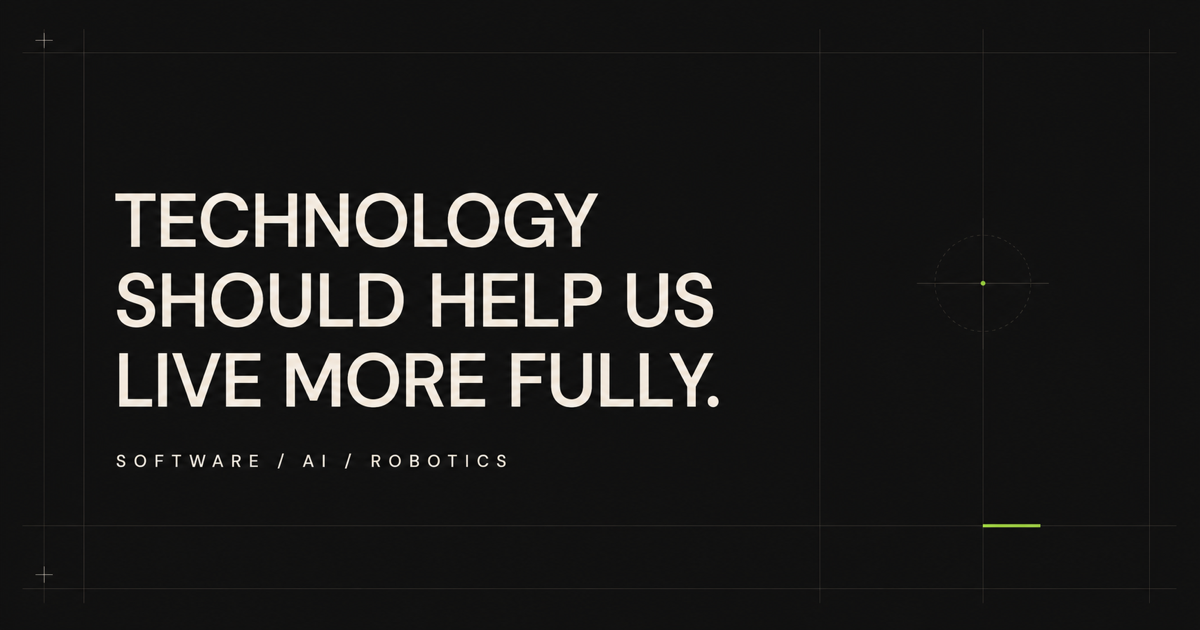
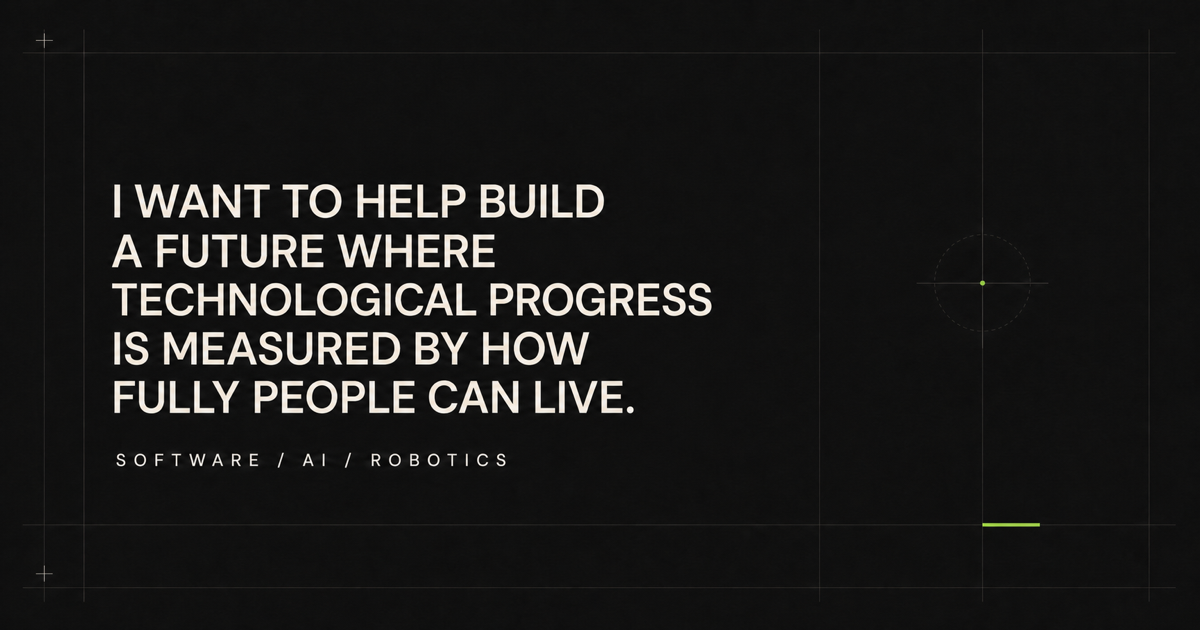
Sharpen portfolio hook and AI note

diff --git a/app/globals.css b/app/globals.css
@@ -141,28 +141,55 @@ a {
 /* Homepage */
 
 .portfolio-intro {
-  padding: clamp(54px, 6vw, 80px) 0 clamp(58px, 6vw, 84px);
+  padding: clamp(44px, 5vw, 72px) 0 clamp(38px, 4vw, 58px);
 }
 
 .portfolio-intro h1 {
-  max-width: 1140px;
+  max-width: 1080px;
   margin: 0;
   color: var(--paper);
-  font-size: clamp(48px, 6.4vw, 84px);
+  font-size: clamp(48px, 6.2vw, 84px);
   font-weight: 680;
-  line-height: 0.92;
-  letter-spacing: -0.065em;
+  line-height: 0.94;
+  letter-spacing: -0.062em;
   text-wrap: balance;
 }
 
-.portfolio-intro h1 span {
-  display: block;
-  margin-bottom: 20px;
+.ai-note {
+  display: grid;
+  grid-template-columns: minmax(175px, 0.38fr) minmax(0, 0.62fr);
+  gap: clamp(26px, 4vw, 58px);
+  align-items: start;
+  margin: clamp(28px, 3.4vw, 44px) 0 0;
+  padding-top: 18px;
+  border-top: 1px solid var(--line-dark);
+}
+
+.ai-note figcaption {
+  display: flex;
+  flex-direction: column;
+  gap: 8px;
   color: var(--muted-dark);
-  font-size: clamp(23px, 2.8vw, 38px);
-  font-weight: 520;
-  line-height: 1.08;
-  letter-spacing: -0.04em;
+  font: 800 10px/1.2 var(--mono);
+  letter-spacing: 0.085em;
+}
+
+.ai-note figcaption span:first-child {
+  color: var(--signal);
+}
+
+.ai-note blockquote {
+  max-width: 720px;
+  margin: 0;
+}
+
+.ai-note blockquote p {
+  margin: 0;
+  color: #d0d1ca;
+  font-size: clamp(18px, 1.7vw, 23px);
+  line-height: 1.32;
+  letter-spacing: -0.025em;
+  text-wrap: balance;
 }
 
 .detail-actions {
@@ -1731,17 +1758,30 @@ a {
   }
 
   .portfolio-intro {
-    padding: 50px 0 46px;
+    padding: 38px 0 32px;
   }
 
   .portfolio-intro h1 {
-    font-size: clamp(38px, 10.5vw, 46px);
-    line-height: 0.98;
+    font-size: clamp(40px, 11.4vw, 50px);
+    line-height: 0.97;
   }
 
-  .portfolio-intro h1 span {
-    margin-bottom: 14px;
-    font-size: clamp(19px, 5.8vw, 24px);
+  .ai-note {
+    grid-template-columns: 1fr;
+    gap: 12px;
+    margin-top: 26px;
+    padding-top: 14px;
+  }
+
+  .ai-note figcaption {
+    flex-direction: row;
+    justify-content: space-between;
+    gap: 16px;
+  }
+
+  .ai-note blockquote p {
+    font-size: 17px;
+    line-height: 1.38;
   }
 
   .compact-heading {
@@ -1755,7 +1795,7 @@ a {
   }
 
   .work-v3 {
-    padding: 36px 0 64px;
+    padding: 28px 0 64px;
   }
 
   .selected-heading {

diff --git a/app/layout.tsx b/app/layout.tsx
@@ -16,15 +16,15 @@ export const metadata: Metadata = {
     ? { alternates: { canonical: siteOrigin?.toString() } }
     : {}),
   title: {
-    default: 'Software, AI & Robotics Portfolio',
+    default: 'Jack Coleman | Software, AI & Robotics',
     template: '%s',
   },
   description:
-    'NVIDIA Jetson vision, robotics, agent systems and products built from prototype to production.',
+    'Software, AI and robotics portfolio spanning NVIDIA Jetson vision, agent systems and products built from prototype to production.',
   openGraph: {
-    title: 'Software, AI & Robotics Portfolio',
+    title: 'Jack Coleman | Software, AI & Robotics',
     description:
-      'Technology should help us live more fully. Selected work across software, AI and robotics.',
+      'I want to help build a future where technological progress is measured by how fully people can live.',
     type: 'website',
     ...(publicLaunch ? { url: siteOrigin?.toString() } : {}),
     ...(socialImage
@@ -34,7 +34,7 @@ export const metadata: Metadata = {
               url: socialImage,
               width: 1200,
               height: 630,
-              alt: 'Technology should help us live more fully. Software, AI and robotics.',
+              alt: 'I want to help build a future where technological progress is measured by how fully people can live. Software, AI and robotics.',
             },
           ],
         }
@@ -42,9 +42,9 @@ export const metadata: Metadata = {
   },
   twitter: {
     card: 'summary_large_image',
-    title: 'Software, AI & Robotics Portfolio',
+    title: 'Jack Coleman | Software, AI & Robotics',
     description:
-      'Technology should help us live more fully. Selected work across software, AI and robotics.',
+      'I want to help build a future where technological progress is measured by how fully people can live.',
     ...(socialImage ? { images: [socialImage] } : {}),
   },
   icons: { icon: '/favicon.svg' },

diff --git a/app/work/[slug]/page.tsx b/app/work/[slug]/page.tsx
@@ -17,14 +17,15 @@ export async function generateMetadata({ params }: Props): Promise<Metadata> {
   const project = projectBySlug[slug];
   if (!project) return {};
 
-  const title = `${project.title} | Engineering Portfolio`;
+  const title = `${project.title} | Jack Coleman`;
   const siteUrl = process.env.PORTFOLIO_SITE_URL;
   const publicLaunch = Boolean(
     siteUrl && process.env.PORTFOLIO_PUBLIC_SITE === 'true',
   );
-  const socialImage = siteUrl
-    ? new URL('/og.png', siteUrl).toString()
-    : undefined;
+  const socialImage =
+    siteUrl && project.media?.type === 'image'
+      ? new URL(project.media.src, siteUrl).toString()
+      : undefined;
   const canonical = publicLaunch
     ? new URL(`/work/${project.slug}`, siteUrl).toString()
     : undefined;
@@ -38,24 +39,22 @@ export async function generateMetadata({ params }: Props): Promise<Metadata> {
       description: project.description,
       type: 'website',
       ...(canonical ? { url: canonical } : {}),
-      ...(socialImage
-        ? {
-            images: [
-              {
-                url: socialImage,
-                width: 1200,
-                height: 630,
-                alt: 'Software, AI and robotics engineering portfolio',
-              },
-            ],
-          }
-        : {}),
+      images: socialImage
+        ? [
+            {
+              url: socialImage,
+              width: project.media?.width,
+              height: project.media?.height,
+              alt: project.media?.alt,
+            },
+          ]
+        : [],
     },
     twitter: {
       card: 'summary_large_image',
       title,
       description: project.description,
-      ...(socialImage ? { images: [socialImage] } : {}),
+      images: socialImage ? [socialImage] : [],
     },
   };
 }

diff --git a/app/page.tsx b/app/page.tsx
@@ -75,9 +75,22 @@ export default function Home() {
 
       <section className="portfolio-intro shell" id="top">
         <h1>
-          <span>I build with one belief:</span>
-          technology should help us live more fully.
+          I want to help build a future where technological progress is measured
+          by how fully people can live.
         </h1>
+        <figure className="ai-note">
+          <figcaption>
+            <span>MY AI SAYS</span>
+            <span>AFTER WORKING WITH ME</span>
+          </figcaption>
+          <blockquote>
+            <p>
+              Jack treats technology as material, not spectacle. He keeps
+              pulling ideas out of the screen and into products, machines and
+              systems people can actually use.
+            </p>
+          </blockquote>
+        </figure>
       </section>
 
       <section className="work-v3" id="featured">
